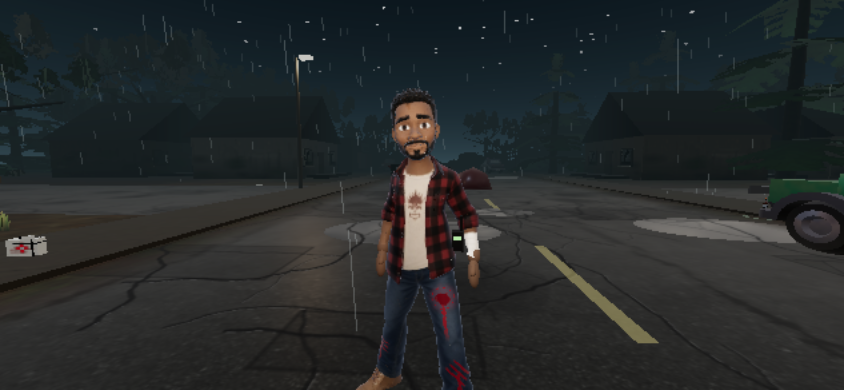
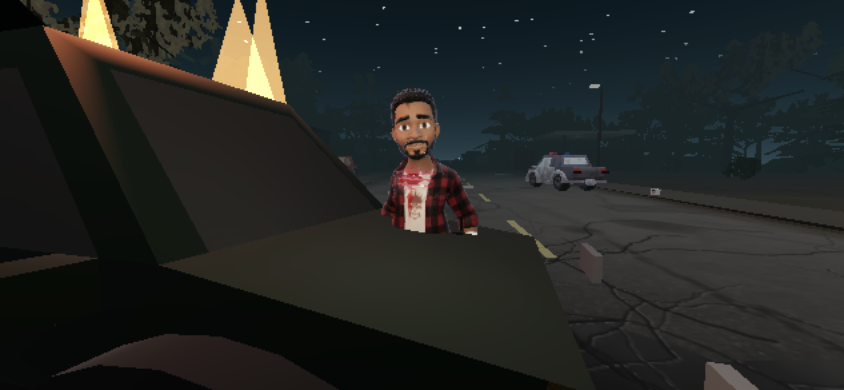
Retaken proofs + PROGRESS

diff --git a/PROGRESS.md b/PROGRESS.md
@@ -8,3 +8,10 @@ Done (src/game/gore.js + hooks in game.js):
 - Bodies stay: dead zombies only culled after 90s AND >70 zombies in the scene.
 Proof: docs/gore-proof/*.png (844x390, phone size). Tools: tools/proof_gore.mjs, tools/proof_wounds.mjs.
 Flaws: victim is often partly hidden by feeders; feeding legs/feet clip slightly into ground; falling blood droplet particles still look like big red balls; player wounds are not saved across checkpoint reload; mannequin-only (no-rig) NPCs get no wound marks; prone/side victim poses not done (all supine).
+
+## Round 2 fixes (base is now main v1.9.15, branch feat/gore-main)
+- Base check: the gore does NOT depend on feat/realism-anim-v2 (only textual merge conflicts in game.js; resolved, builds clean on main). actions.js is untouched.
+- Blood droplets are now small streaks stretched along flight, ~half as many, shorter-lived, more landing splats; flesh gibs are small chunks, not cubes.
+- Victims lie broadside to the player's approach with feeders kneeling on the far side + flanks; supine / on-side / face-down poses; pool + feeders centred on the body.
+- Feeders kneel with knees on the ground (hip drop measured from the visible skinned body; fixes floating/clipping and a negative-dt ramp bug).
+- Proofs retaken (docs/gore-proof): gameplay camera, close-ups, low-camera feet, kill droplets, wounds on a clear road. Tools: tools/proof_feed_game.mjs, proof_gore.mjs (ROLL/ADJ/KILL env), proof_wounds.mjs.
